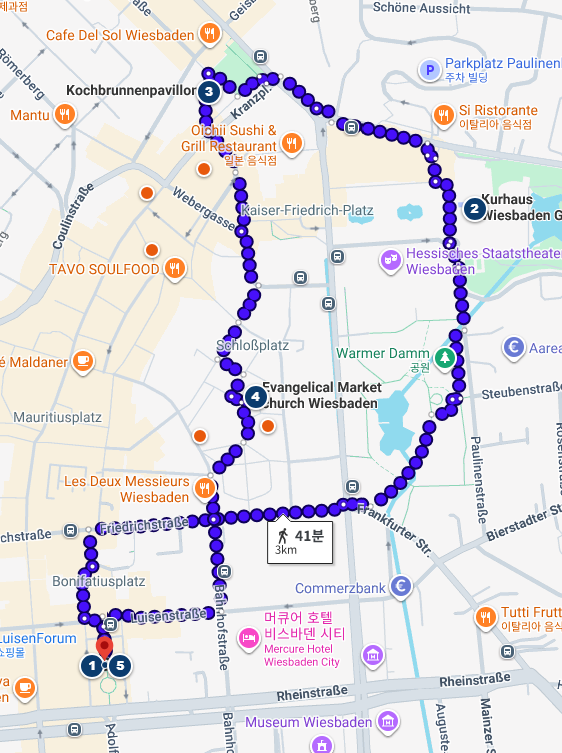
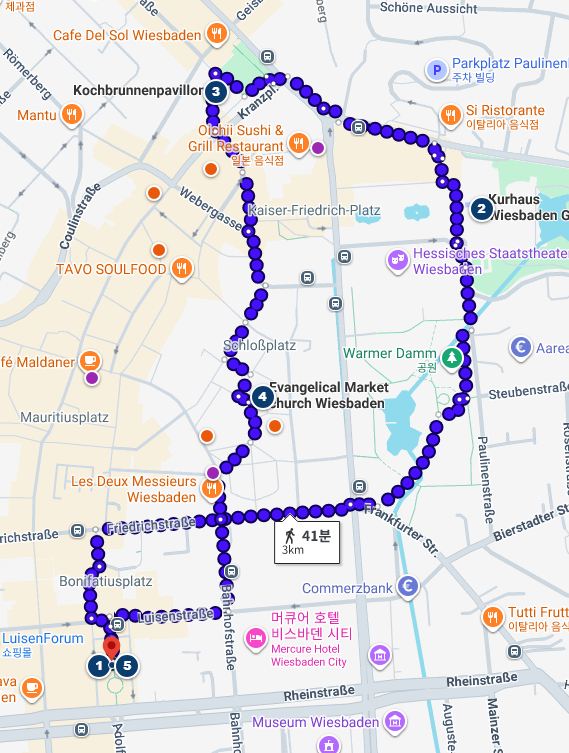
Add dessert/cafe sections for Wiesbaden and Frankfurt (final 2 cities)
Wiesbaden: Café Maldaner (Viennese-style since 1859), Eiscafé Rialto
(Marktplatz gelato since 1970), Café Blum (traditional patisserie
since 1878).

Frankfurt: Kaffeehaus Goldene Waage (in the reconstructed Altstadt,
across from the Dom), Eiscafé Da Vinci (right on Römerberg), Iimori
(Frankfurt's top-rated French patisserie).

This completes the dessert/cafe addition across all 10 cities -
each with real geocoded map markers (purple, distinct from meal
restaurants and numbered route stops) and verified nearest-landmark
and parking walking distances.

diff --git a/germany-roadtrip-planner.html b/germany-roadtrip-planner.html
@@ -3493,6 +3493,32 @@ document.addEventListener('DOMContentLoaded', function(){
         </div>
       </div>
       </div>
+      <div class="sight-list">
+      <h4>디저트 &amp; 카페 (비스바덴)</h4>
+      <div class="food-grid">
+        <div class="food-card">
+          <h5>Café Maldaner</h5>
+          <p class="food-loc">Marktstraße 34 · 1859년부터 이어진 독일에서 손꼽히는 빈(비엔나)풍 전통 카페 · 영업시간 현장 확인 권장</p>
+          <p class="food-dish">🍰 전통 케이크+커피</p>
+          <p class="food-park">🅿 Parkhaus Luisenplatz에서 도보 8분 · <a href="https://www.google.com/maps/search/?api=1&query=Cafe+Maldaner+Marktstrasse+34+Wiesbaden" target="_blank" rel="noopener">지도</a></p>
+          <p class="food-near">📍 마르크트교회에서 약 300m·도보 4분</p>
+        </div>
+        <div class="food-card">
+          <h5>Eiscafé Rialto</h5>
+          <p class="food-loc">Marktstraße 8, 마르크트광장 · 1970년부터 이어진 이탈리안 젤라토 명소, 늘 줄이 있음 · 영업시간 현장 확인 권장</p>
+          <p class="food-dish">🍦 수제 젤라토</p>
+          <p class="food-park">🅿 Parkhaus Luisenplatz에서 도보 7분 · <a href="https://www.google.com/maps/search/?api=1&query=Eiscafe+Rialto+Marktstrasse+8+Wiesbaden" target="_blank" rel="noopener">지도</a></p>
+          <p class="food-near">📍 마르크트교회에서 약 160m·도보 2분</p>
+        </div>
+        <div class="food-card">
+          <h5>Café Blum</h5>
+          <p class="food-loc">Wilhelmstraße 60 · 1878년부터 이어진 전통 콘디토라이, 수제 케이크·프랄린 전문 · 영업시간 현장 확인 권장</p>
+          <p class="food-dish">🍰 수제 케이크·타르트</p>
+          <p class="food-park">🅿 Parkhaus Luisenplatz에서 도보 15분 · <a href="https://www.google.com/maps/search/?api=1&query=Cafe+Blum+Wilhelmstrasse+60+Wiesbaden" target="_blank" rel="noopener">지도</a></p>
+          <p class="food-near">📍 코흐브루넨에서 약 250m·도보 4분</p>
+        </div>
+      </div>
+      </div>
       <p class="city-label">프랑크푸르트</p>
       <p class="walk-map-note">🚗 비스바덴→프랑크푸르트 약 39km·32분 · <a href="https://www.google.com/maps/dir/?api=1&travelmode=driving&origin=50.0822,8.2429&destination=50.1106,8.6822" target="_blank" rel="noopener">Google 지도로 길찾기</a><br>🅿 Parkhaus Dom-Römer · 유료(시간당 약 €3~4) · <a href="https://www.google.com/maps/search/?api=1&query=Parkhaus+Dom-Roemer+Frankfurt" target="_blank" rel="noopener">주차장 위치 보기</a></p>
       <p class="walk-map-note">뢰머광장 일대(도보권, 아래 3곳 모두 서로 5분 이내) — 뢰머광장 → 대성당 → 아이제르너 슈텍</p>
@@ -3582,6 +3608,32 @@ document.addEventListener('DOMContentLoaded', function(){
           <p class="food-dish">🍽 와인 한 잔+지중해식 안주</p>
           <p class="food-park">🅿 Parkhaus Dom-Römer에서 도보 1분 · <a href="https://www.google.com/maps/search/?api=1&query=Weinschirn+Roemerberg+Frankfurt" target="_blank" rel="noopener">지도</a></p>
           <p class="food-near">📍 뢰머광장에서 약 74m·도보 1분</p>
+        </div>
+      </div>
+      </div>
+      <div class="sight-list">
+      <h4>디저트 &amp; 카페 (프랑크푸르트)</h4>
+      <div class="food-grid">
+        <div class="food-card">
+          <h5>Kaffeehaus Goldene Waage</h5>
+          <p class="food-loc">Markt 5, 대성당 맞은편 · 재건된 "새 구시가" 대표 건물 내 역사적 카페 · 영업시간 현장 확인 권장</p>
+          <p class="food-dish">☕ 케이크+커피</p>
+          <p class="food-park">🅿 Parkhaus Dom-Römer에서 도보 3분 · <a href="https://www.google.com/maps/search/?api=1&query=Kaffeehaus+Goldene+Waage+Frankfurt" target="_blank" rel="noopener">지도</a></p>
+          <p class="food-near">📍 프랑크푸르트 대성당에서 약 120m·도보 2분</p>
+        </div>
+        <div class="food-card">
+          <h5>Eiscafé Da Vinci</h5>
+          <p class="food-loc">Römerberg 13 · 뢰머광장 바로 위 이탈리안 아이스카페 · 영업시간 현장 확인 권장</p>
+          <p class="food-dish">🍦 이탈리안 젤라토</p>
+          <p class="food-park">🅿 Parkhaus Dom-Römer에서 도보 1분 · <a href="https://www.google.com/maps/search/?api=1&query=Eiscafe+Da+Vinci+Roemerberg+13+Frankfurt" target="_blank" rel="noopener">지도</a></p>
+          <p class="food-near">📍 뢰머광장에서 약 34m·도보 1분</p>
+        </div>
+        <div class="food-card">
+          <h5>Iimori</h5>
+          <p class="food-loc">Braubachstraße · 프랑크푸르트 최고로 꼽히는 프렌치 파티스리 · 영업시간 현장 확인 권장</p>
+          <p class="food-dish">🥐 프렌치 페이스트리</p>
+          <p class="food-park">🅿 Parkhaus Dom-Römer에서 도보 2분 · <a href="https://www.google.com/maps/search/?api=1&query=Iimori+Braubachstrasse+Frankfurt" target="_blank" rel="noopener">지도</a></p>
+          <p class="food-near">📍 뢰머광장에서 약 170m·도보 2분</p>
         </div>
       </div>
       </div>

diff --git a/index.html b/index.html
@@ -3493,6 +3493,32 @@ document.addEventListener('DOMContentLoaded', function(){
         </div>
       </div>
       </div>
+      <div class="sight-list">
+      <h4>디저트 &amp; 카페 (비스바덴)</h4>
+      <div class="food-grid">
+        <div class="food-card">
+          <h5>Café Maldaner</h5>
+          <p class="food-loc">Marktstraße 34 · 1859년부터 이어진 독일에서 손꼽히는 빈(비엔나)풍 전통 카페 · 영업시간 현장 확인 권장</p>
+          <p class="food-dish">🍰 전통 케이크+커피</p>
+          <p class="food-park">🅿 Parkhaus Luisenplatz에서 도보 8분 · <a href="https://www.google.com/maps/search/?api=1&query=Cafe+Maldaner+Marktstrasse+34+Wiesbaden" target="_blank" rel="noopener">지도</a></p>
+          <p class="food-near">📍 마르크트교회에서 약 300m·도보 4분</p>
+        </div>
+        <div class="food-card">
+          <h5>Eiscafé Rialto</h5>
+          <p class="food-loc">Marktstraße 8, 마르크트광장 · 1970년부터 이어진 이탈리안 젤라토 명소, 늘 줄이 있음 · 영업시간 현장 확인 권장</p>
+          <p class="food-dish">🍦 수제 젤라토</p>
+          <p class="food-park">🅿 Parkhaus Luisenplatz에서 도보 7분 · <a href="https://www.google.com/maps/search/?api=1&query=Eiscafe+Rialto+Marktstrasse+8+Wiesbaden" target="_blank" rel="noopener">지도</a></p>
+          <p class="food-near">📍 마르크트교회에서 약 160m·도보 2분</p>
+        </div>
+        <div class="food-card">
+          <h5>Café Blum</h5>
+          <p class="food-loc">Wilhelmstraße 60 · 1878년부터 이어진 전통 콘디토라이, 수제 케이크·프랄린 전문 · 영업시간 현장 확인 권장</p>
+          <p class="food-dish">🍰 수제 케이크·타르트</p>
+          <p class="food-park">🅿 Parkhaus Luisenplatz에서 도보 15분 · <a href="https://www.google.com/maps/search/?api=1&query=Cafe+Blum+Wilhelmstrasse+60+Wiesbaden" target="_blank" rel="noopener">지도</a></p>
+          <p class="food-near">📍 코흐브루넨에서 약 250m·도보 4분</p>
+        </div>
+      </div>
+      </div>
       <p class="city-label">프랑크푸르트</p>
       <p class="walk-map-note">🚗 비스바덴→프랑크푸르트 약 39km·32분 · <a href="https://www.google.com/maps/dir/?api=1&travelmode=driving&origin=50.0822,8.2429&destination=50.1106,8.6822" target="_blank" rel="noopener">Google 지도로 길찾기</a><br>🅿 Parkhaus Dom-Römer · 유료(시간당 약 €3~4) · <a href="https://www.google.com/maps/search/?api=1&query=Parkhaus+Dom-Roemer+Frankfurt" target="_blank" rel="noopener">주차장 위치 보기</a></p>
       <p class="walk-map-note">뢰머광장 일대(도보권, 아래 3곳 모두 서로 5분 이내) — 뢰머광장 → 대성당 → 아이제르너 슈텍</p>
@@ -3582,6 +3608,32 @@ document.addEventListener('DOMContentLoaded', function(){
           <p class="food-dish">🍽 와인 한 잔+지중해식 안주</p>
           <p class="food-park">🅿 Parkhaus Dom-Römer에서 도보 1분 · <a href="https://www.google.com/maps/search/?api=1&query=Weinschirn+Roemerberg+Frankfurt" target="_blank" rel="noopener">지도</a></p>
           <p class="food-near">📍 뢰머광장에서 약 74m·도보 1분</p>
+        </div>
+      </div>
+      </div>
+      <div class="sight-list">
+      <h4>디저트 &amp; 카페 (프랑크푸르트)</h4>
+      <div class="food-grid">
+        <div class="food-card">
+          <h5>Kaffeehaus Goldene Waage</h5>
+          <p class="food-loc">Markt 5, 대성당 맞은편 · 재건된 "새 구시가" 대표 건물 내 역사적 카페 · 영업시간 현장 확인 권장</p>
+          <p class="food-dish">☕ 케이크+커피</p>
+          <p class="food-park">🅿 Parkhaus Dom-Römer에서 도보 3분 · <a href="https://www.google.com/maps/search/?api=1&query=Kaffeehaus+Goldene+Waage+Frankfurt" target="_blank" rel="noopener">지도</a></p>
+          <p class="food-near">📍 프랑크푸르트 대성당에서 약 120m·도보 2분</p>
+        </div>
+        <div class="food-card">
+          <h5>Eiscafé Da Vinci</h5>
+          <p class="food-loc">Römerberg 13 · 뢰머광장 바로 위 이탈리안 아이스카페 · 영업시간 현장 확인 권장</p>
+          <p class="food-dish">🍦 이탈리안 젤라토</p>
+          <p class="food-park">🅿 Parkhaus Dom-Römer에서 도보 1분 · <a href="https://www.google.com/maps/search/?api=1&query=Eiscafe+Da+Vinci+Roemerberg+13+Frankfurt" target="_blank" rel="noopener">지도</a></p>
+          <p class="food-near">📍 뢰머광장에서 약 34m·도보 1분</p>
+        </div>
+        <div class="food-card">
+          <h5>Iimori</h5>
+          <p class="food-loc">Braubachstraße · 프랑크푸르트 최고로 꼽히는 프렌치 파티스리 · 영업시간 현장 확인 권장</p>
+          <p class="food-dish">🥐 프렌치 페이스트리</p>
+          <p class="food-park">🅿 Parkhaus Dom-Römer에서 도보 2분 · <a href="https://www.google.com/maps/search/?api=1&query=Iimori+Braubachstrasse+Frankfurt" target="_blank" rel="noopener">지도</a></p>
+          <p class="food-near">📍 뢰머광장에서 약 170m·도보 2분</p>
         </div>
       </div>
       </div>
